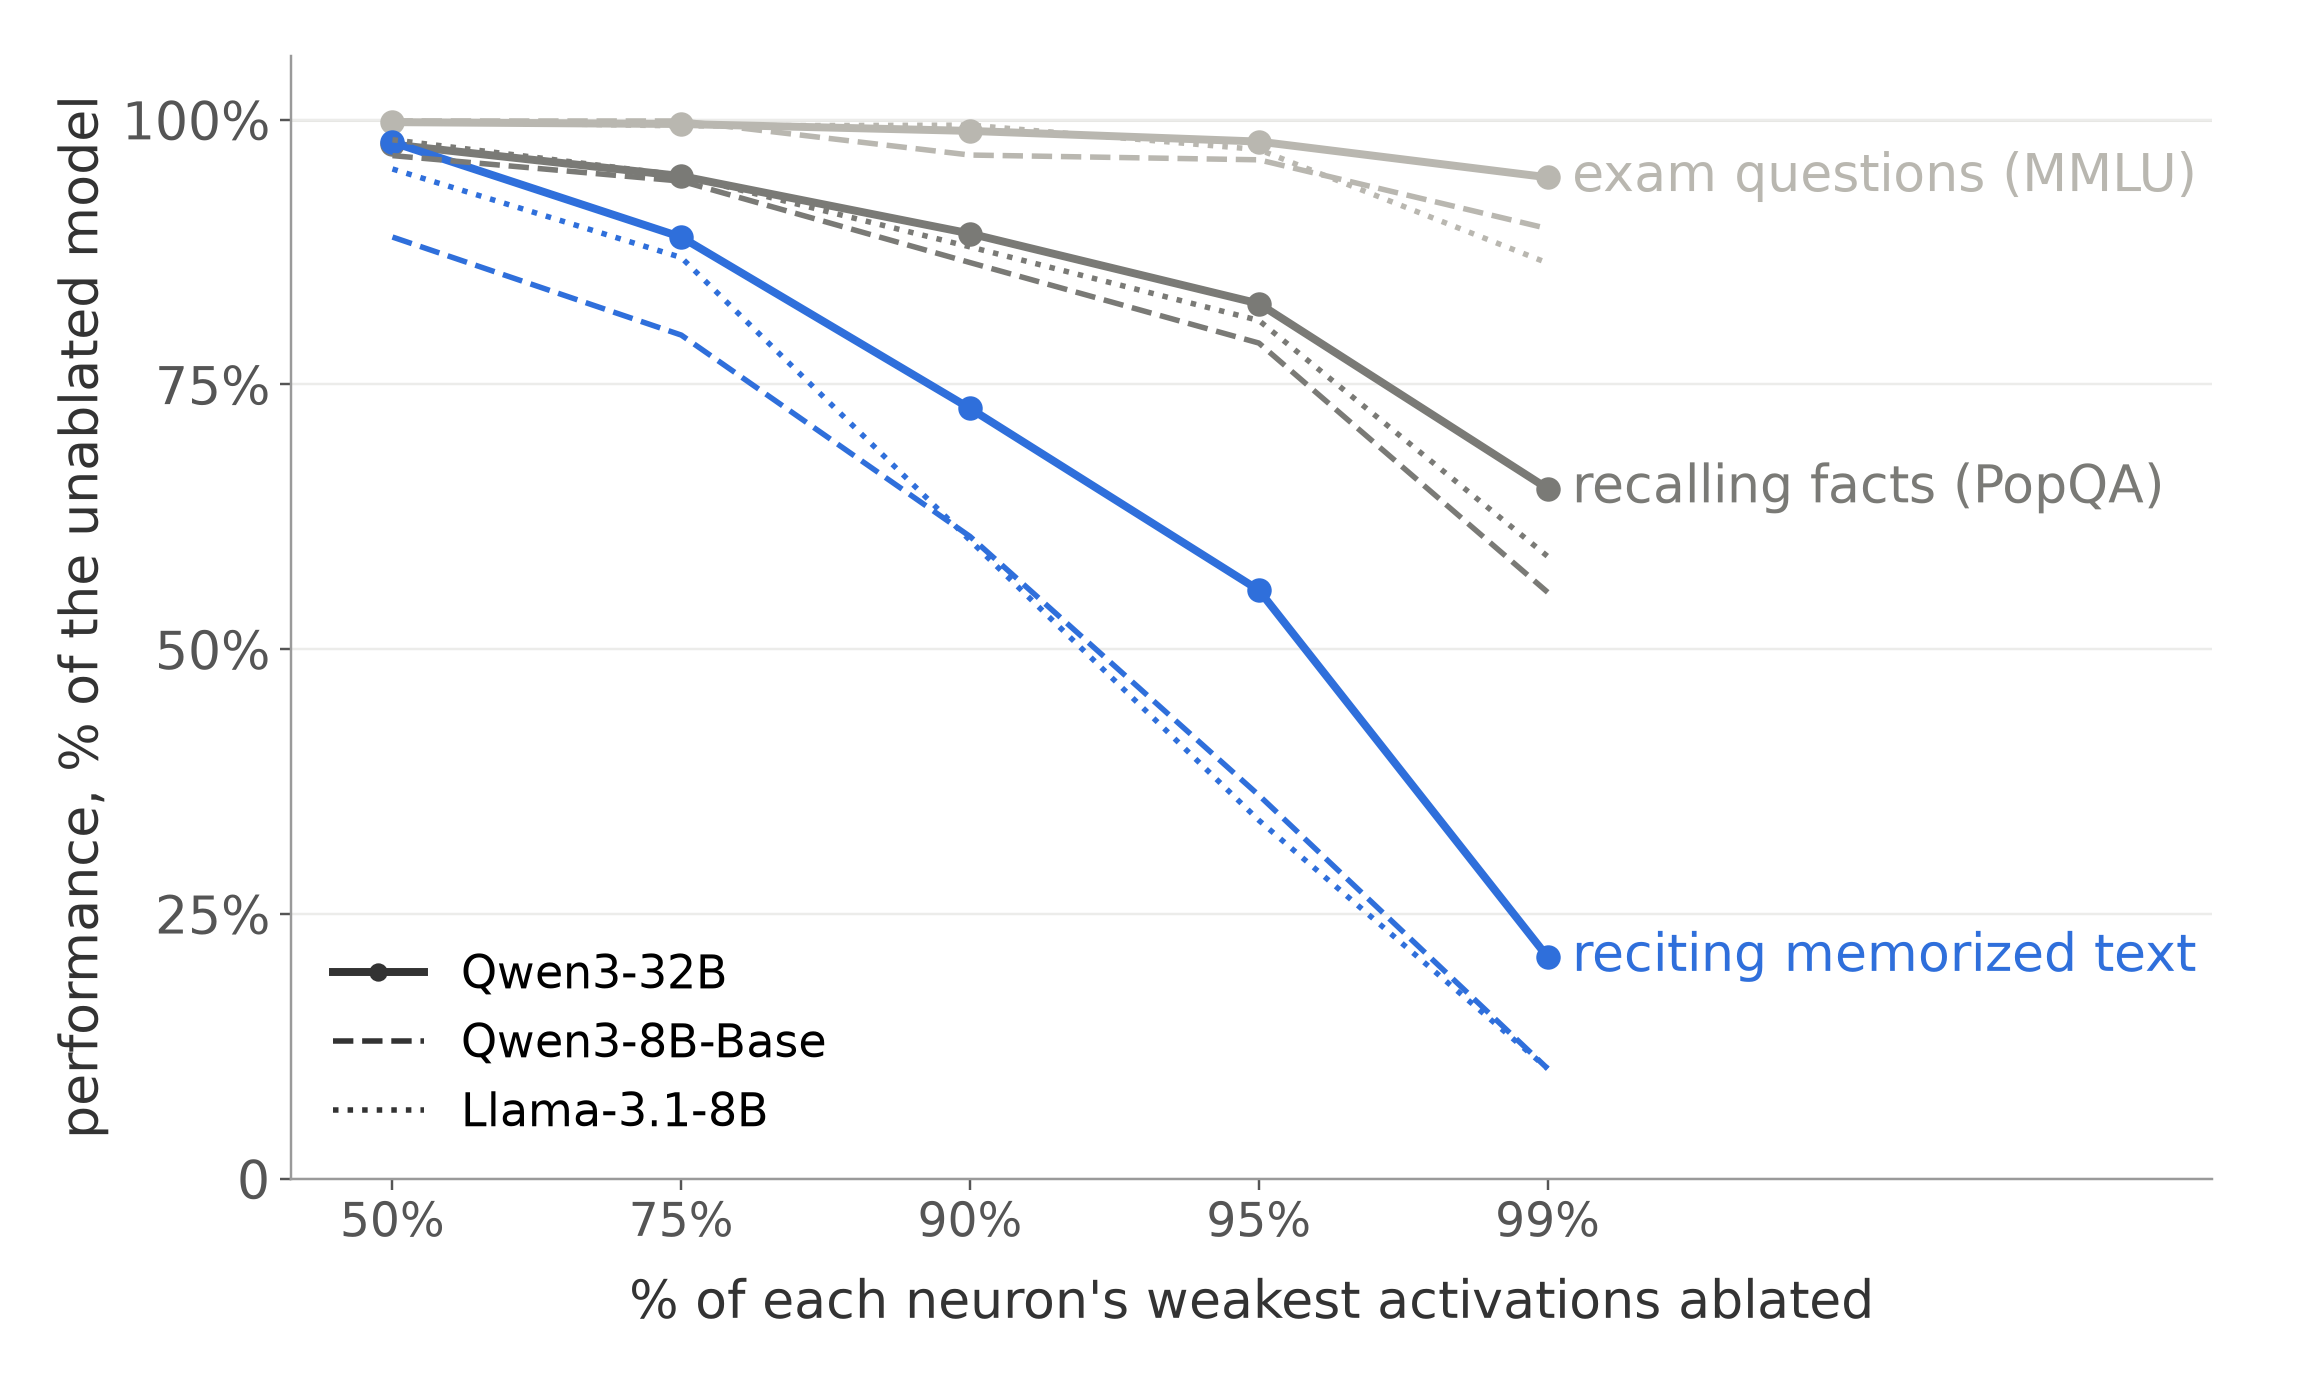
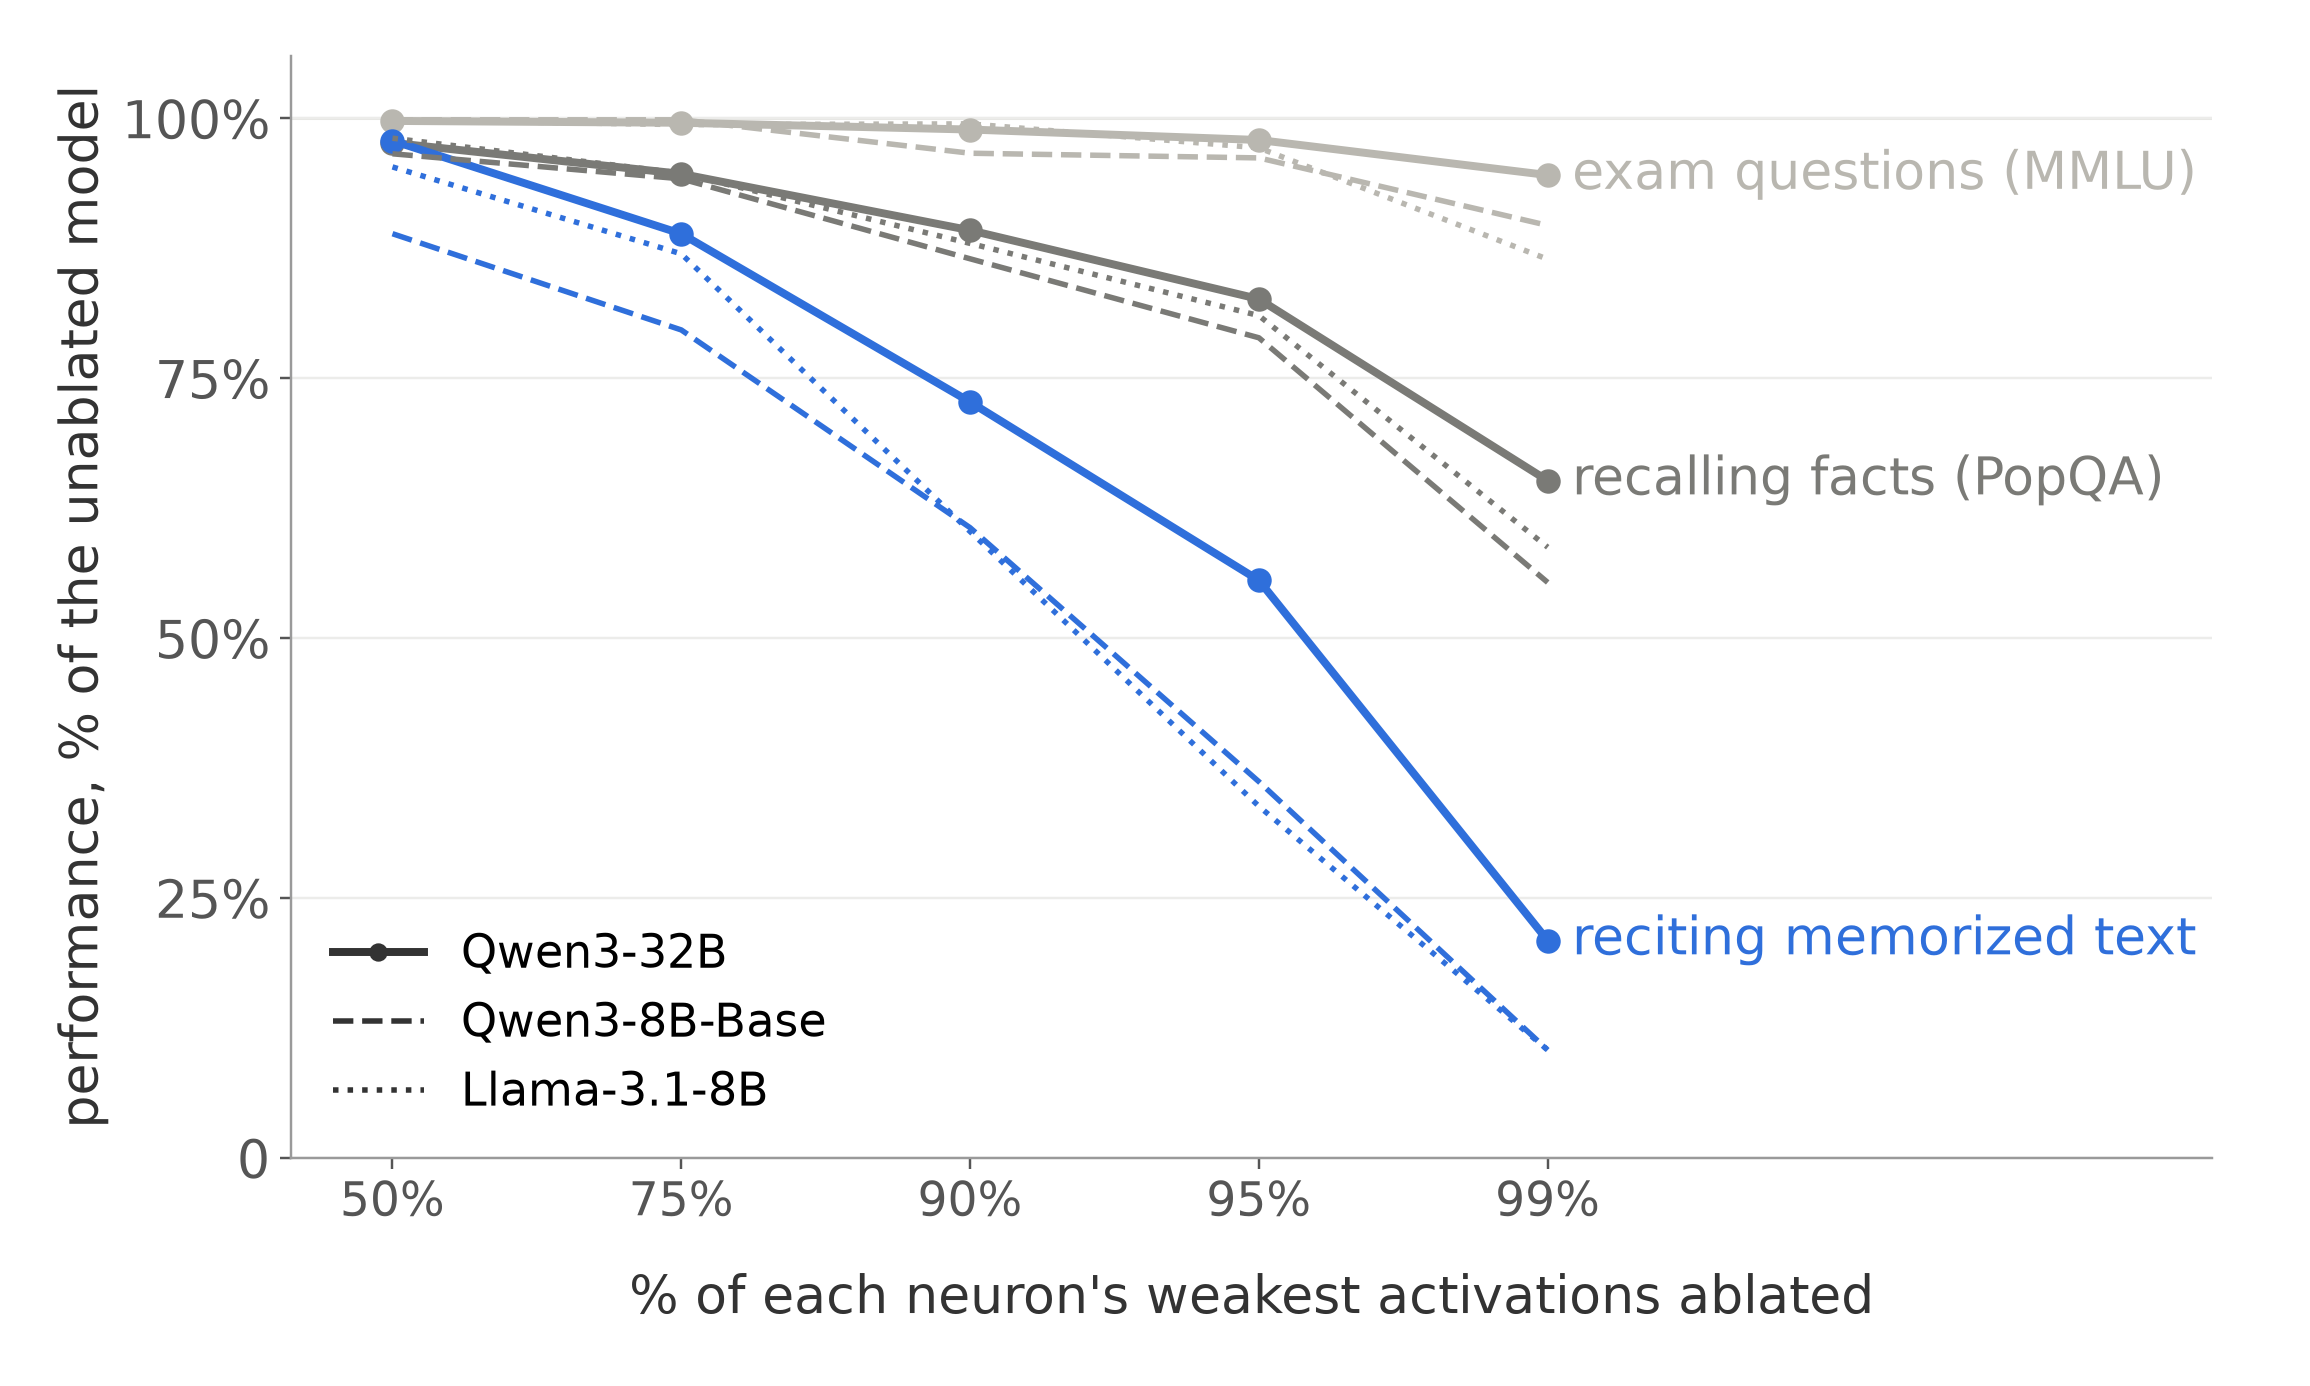
Three-model tweet figure: LOSS=1 option prints the loss range under each tick

diff --git a/src/fig_tweet_all.py b/src/fig_tweet_all.py
@@ -20,9 +20,9 @@ COLOR = os.environ.get('PALETTE', '') == 'color'   # PALETTE=color: three full-s
 C_EXAM, C_FACT, C_MEM = ('#2f8f85', '#c7891a', '#8a3e9a') if COLOR else (GREY2, GREY, ACC)   # teal, goldenrod, plum
 TASKS_ALL = [('mmlu', C_EXAM, 'exam questions (MMLU)'), ('popqa', C_FACT, 'recalling facts (PopQA)'), ('mem_tokmatch', C_MEM, 'reciting memorized text')]
 TASKS = [t for t in TASKS_ALL if t[0] in (sys.argv[1].split(',') if len(sys.argv) > 1 else ['mmlu', 'popqa', 'mem_tokmatch'])]
-OUT = ('tweet_retention_all' if len(sys.argv) < 2 else 'tweet_retention_all_' + '_'.join(sys.argv[1].split(','))) + ('_color' if COLOR else '') + '.png'
+OUT = ('tweet_retention_all' if len(sys.argv) < 2 else 'tweet_retention_all_' + '_'.join(sys.argv[1].split(','))) + ('_color' if COLOR else '') + ('_loss' if os.environ.get('LOSS', '') == '1' else '') + '.png'
 qs = [50, 75, 90, 95, 99]; x = list(range(len(qs)))
-fig, ax = plt.subplots(figsize=(10.5, 6.3))
+fig, ax = plt.subplots(figsize=(10.5, 6.9 if os.environ.get('LOSS', '') == '1' else 6.3))
 for tag, mlabel, ls, lw in MODELS:
     rows = {r['name']: r for r in json.load(open(os.path.join(ROOT, 'results', tag, 'summary_rows.json')))}
     base_mmlu = json.load(open(os.path.join(ROOT, 'results', tag, 'grid/baseline.json')))['metrics']['mmlu']['acc']
@@ -31,9 +31,14 @@ for tag, mlabel, ls, lw in MODELS:
         ax.plot(x, vals, ls, color=c, lw=lw, marker='o' if ls == '-' else None, ms=7)
         if ls == '-': ax.annotate(lab, (x[-1], vals[-1]), xytext=(8, 0), textcoords='offset points', va='center', color=c, fontsize=17)
 ax.axhline(100, ls='-', color='#e6e6e3', lw=1, zorder=0)
-ax.set_xticks(x); ax.set_xticklabels([f'{q}%' for q in qs], fontsize=15.5)
+LOSS = os.environ.get('LOSS', '') == '1'   # LOSS=1: held-out loss increase under each tick, as the range across the three models
+if LOSS:
+    L = {q: [ {r['name']: r for r in json.load(open(os.path.join(ROOT, 'results', t, 'summary_rows.json')))}[f's1_q{q}_pp']['dloss_pct'] for t, *_ in MODELS] for q in qs}
+    def rng(v): lo, hi = min(v), max(v); return f'+{lo:.1f}%' if f'{lo:.1f}' == f'{hi:.1f}' else (f'+{lo:.0f}\u2013{hi:.0f}%' if lo >= 10 else f'+{lo:.1f}\u2013{hi:.1f}%')
+    ax.set_xticks(x); ax.set_xticklabels([f'{q}%\n{rng(L[q])}' for q in qs], fontsize=14, linespacing=1.5)
+else: ax.set_xticks(x); ax.set_xticklabels([f'{q}%' for q in qs], fontsize=15.5)
 ax.set_xlim(-0.35, len(qs) - 0.6 + 1.9); ax.set_ylim(0, 106); ax.set_yticks([0, 25, 50, 75, 100]); ax.set_yticklabels(['0', '25%', '50%', '75%', '100%'])
-ax.set_xlabel("% of each neuron's weakest activations ablated", labelpad=10); ax.set_ylabel('performance, % of the unablated model')
+ax.set_xlabel("% of each neuron's weakest activations ablated" + ("\n(second row: resulting increase in overall loss)" if LOSS else ''), labelpad=10, linespacing=1.4); ax.set_ylabel('performance, % of the unablated model')
 ax.grid(axis='y', color='#ececea')
 ax.legend(handles=[Line2D([], [], color=INK, ls=ls, lw=lw, marker='o' if ls == '-' else None, ms=5, label=m) for _, m, ls, lw in MODELS], frameon=False, loc='lower left', fontsize=15)
 fig.tight_layout(); out = os.path.join(ROOT, 'figures', OUT); fig.savefig(out, dpi=220); print('wrote', out)
